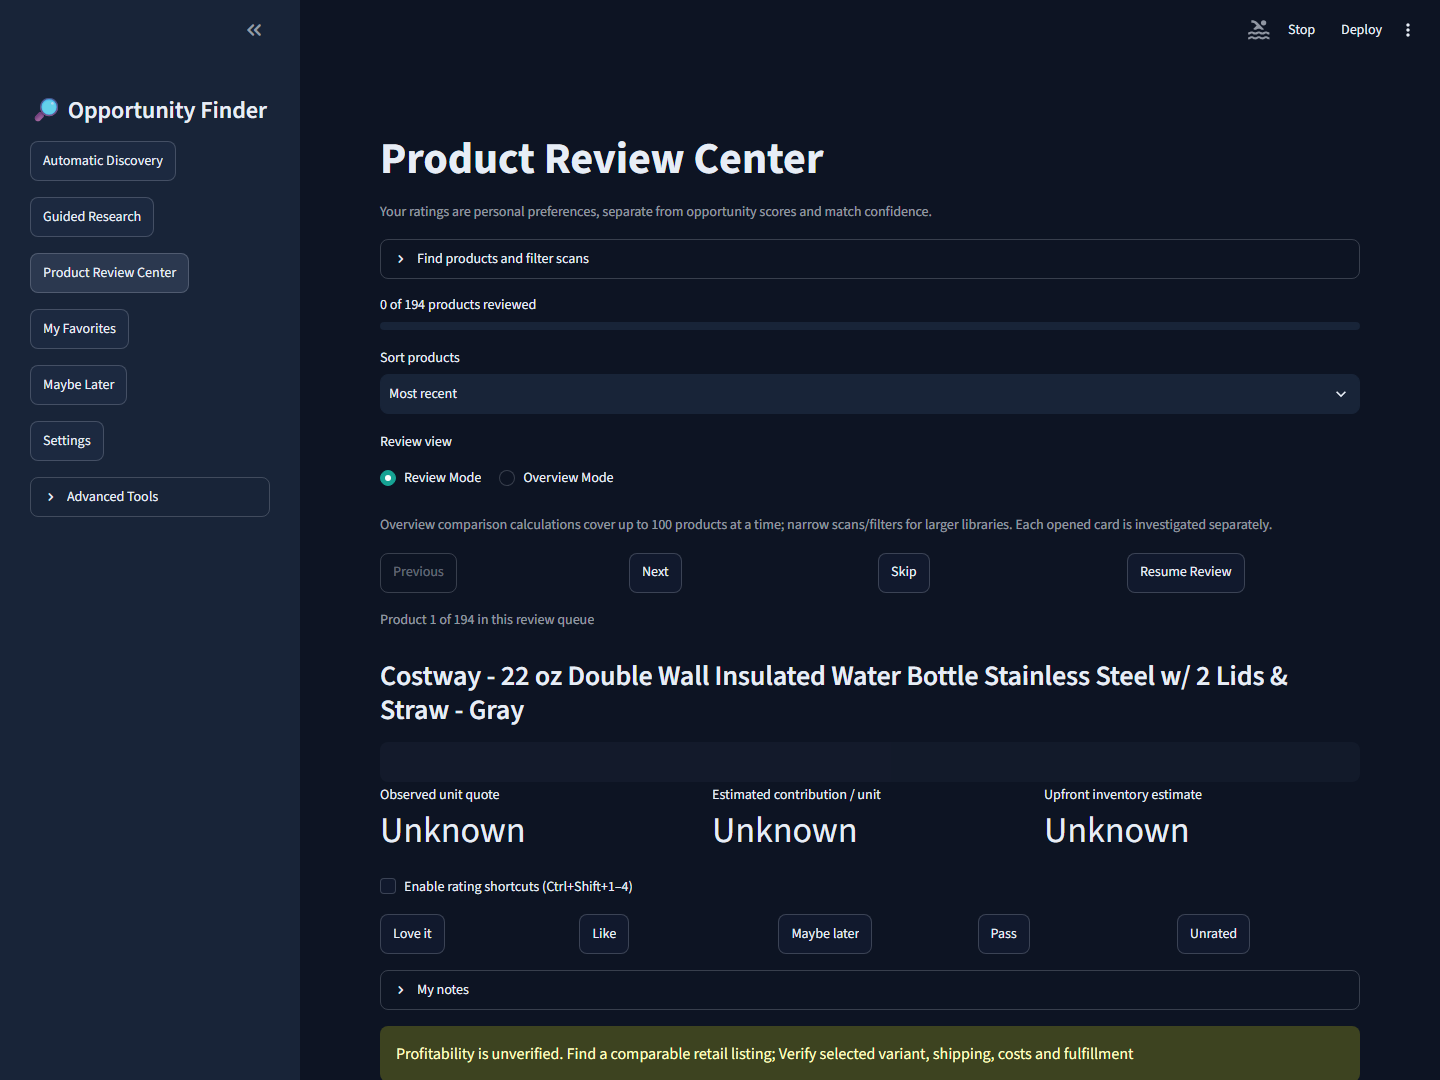
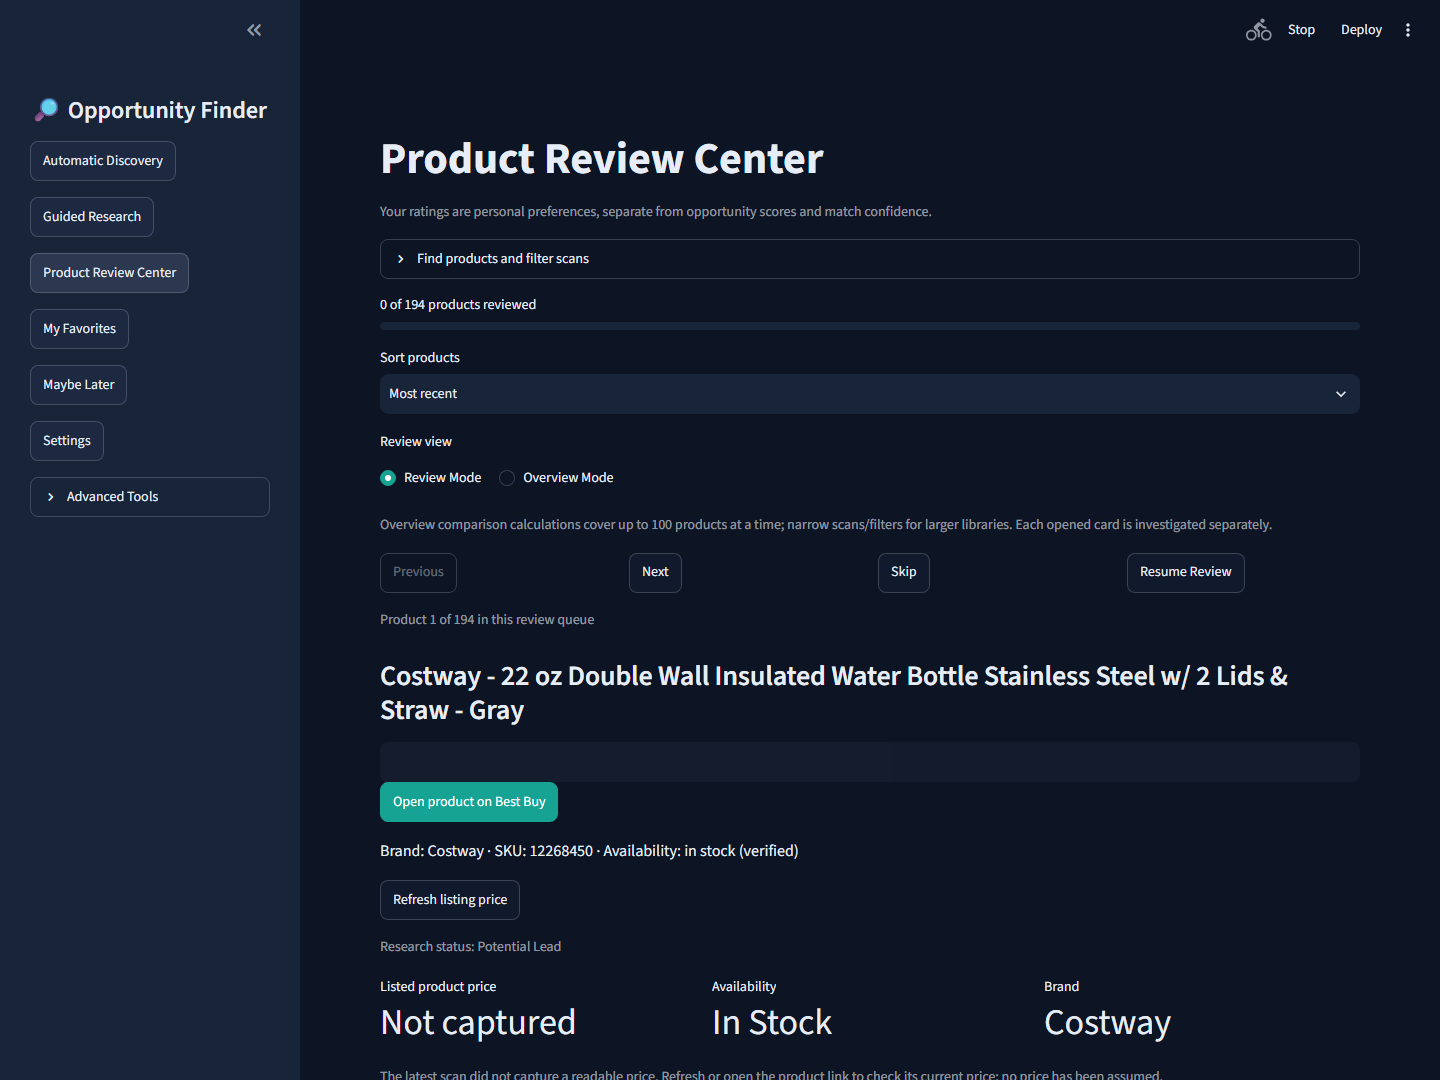
Put listing price, direct product link and known evidence first on review cards

diff --git a/pof/ui_review.py b/pof/ui_review.py
@@ -21,13 +21,63 @@ def decision_card(item, proof, store, *, scenarios=True, controls=None):
     financial = proof.get("financial", {"known": False})
     st.subheader(p.title)
     st.caption(f"{p.source} · {p.category or 'Category unknown'} · {p.collected_at} · Personal rating: {item['rating']}")
+    st.link_button("Open product on " + p.source, p.url, key="listing_" + cid, disabled=not bool(p.url), type="primary")
+    details = []
+    if p.brand:
+        details.append("Brand: " + p.brand)
+    if p.model:
+        details.append("Model: " + p.model)
+    if p.sku:
+        details.append("SKU: " + p.sku)
+    details.append("Availability: " + p.availability.replace("_", " ") + " (" + p.state("availability") + ")")
+    if p.condition and p.condition != "unknown":
+        details.append("Condition: " + p.condition)
+    if p.shipping is not None:
+        details.append("Shipping: " + money(p.shipping, p.currency))
+    if p.delivery_days is not None:
+        details.append(f"Delivery: {p.delivery_days:g} days")
+    if p.rating is not None:
+        details.append(f"Rating: {p.rating:g}/5" + (f" ({p.reviews:g} reviews)" if p.reviews is not None else ""))
+    st.write(" · ".join(details))
+    if p.original_price is not None:
+        st.caption("Source-advertised previous price: " + money(p.original_price, p.currency) + ". This is not an independently verified discount.")
+    from pof.listing_refresh import HOSTS, refresh_listing
+    if p.source in HOSTS and not p.retention_hours and p.collection_method != "bestbuy_api":
+        if st.button("Refresh listing price", key="refresh_" + cid):
+            from pof.live.errors import SourceError
+            try:
+                with st.spinner("Checking this product's public listing…"):
+                    refresh_listing(p, store)
+                st.rerun()
+            except SourceError as exc:
+                st.warning(str(exc))
+            except Exception:
+                st.warning("The listing could not be refreshed safely. Open the product link to check its current price.")
     st.caption("Research status: " + (proof.get("best") or {}).get("state", "Potential Lead"))
     if p.image_url and p.image_reuse_permitted and (store.get_config("settings", "application") or {}).get("show_images", False):
         st.image(p.image_url, width=220)
     cols = st.columns(3)
-    cols[0].metric("Observed unit quote", money(p.price, p.currency))
-    cols[1].metric("Estimated contribution / unit", money(financial.get("contribution_profit")))
-    cols[2].metric("Upfront inventory estimate", money(financial.get("inventory_commitment")))
+    previous_prices = [row for row in ReviewStore(store).history(cid) if row["price"] is not None]
+    last_known = previous_prices[-1] if previous_prices else None
+    cols[0].metric("Listed product price" if p.price is not None else "Last known listed price" if last_known else "Listed product price",
+                   money(p.price, p.currency) if p.price is not None else money(last_known["price"], last_known["currency"]) if last_known else "Not captured")
+    if p.price is None:
+        st.caption("The latest scan did not capture a readable price. " +
+                   ("Last known quote collected " + last_known["collected_at"] + ". " if last_known else "") +
+                   "Refresh or open the product link to check its current price; no price has been assumed.")
+    else:
+        st.caption("Price collected " + p.collected_at + "; the linked listing may have changed.")
+    if financial.get("known"):
+        cols[1].metric("Estimated contribution / unit", money(financial.get("contribution_profit")))
+        cols[2].metric("Upfront inventory estimate", money(financial.get("inventory_commitment")))
+    else:
+        cols[1].metric("Availability", p.availability.replace("_", " ").title())
+        if p.shipping is not None:
+            cols[2].metric("Reported shipping", money(p.shipping, p.currency))
+        elif p.rating is not None:
+            cols[2].metric("Product rating", f"{p.rating:g} / 5")
+        else:
+            cols[2].metric("Brand" if p.brand else "Source", p.brand or p.source)
     if controls:
         controls()
     best = proof.get("best")
@@ -40,7 +90,6 @@ def decision_card(item, proof, store, *, scenarios=True, controls=None):
     st.write("Why investigate: " + (best["promise"] if best else "A catalog candidate that needs independent retail and cost evidence."))
     st.caption("Main risks: different variants, unavailable fulfillment, changing quotes, returns and advertising costs. An asking price does not establish demand or a sale.")
     st.write("Next step: " + (best["next_step"] if best else "Confirm selected variant, destination, shipping and an independent selling reference."))
-    st.link_button("Open source listing", p.url, key="listing_" + cid, disabled=not bool(p.url))
     with st.expander("Sourcing, specifications and comparable offers"):
         st.write(f"Brand: {p.brand or 'Unknown'} · Model: {p.model or 'Unknown'} · Condition: {p.condition}")
         st.write(f"Source role: {p.role}. Retailers are not confirmed dropshipping suppliers.")

diff --git a/pof/listing_refresh.py b/pof/listing_refresh.py
@@ -1,0 +1,45 @@
+"""Refresh a single public listing's explicit offer without guessing a match."""
+from dataclasses import replace
+from urllib.parse import urlsplit
+
+from pof.extraction import parse_products
+from pof.live.errors import SourceError
+from pof.models import NUMERIC, now
+from pof.security import SafeHTTP
+
+HOSTS = {"Best Buy": "www.bestbuy.com", "Amazon US": "www.amazon.com", "AliExpress": "www.aliexpress.com"}
+
+
+def refresh_listing(product, store, http=None):
+    host = HOSTS.get(product.source)
+    if not host or urlsplit(product.url).hostname != host or product.retention_hours or product.collection_method == "bestbuy_api":
+        raise SourceError("refresh_unavailable", "Use Source Manager to refresh this source; direct public-listing refresh is unavailable.")
+    raw = (http or SafeHTTP(2)).fetch(product.url, host, ("text/html", "application/xhtml+xml"))
+    try:
+        offers = parse_products(raw, {"name": product.source, "role": product.role, "url": product.url})
+    except (ValueError, TypeError, KeyError):
+        raise SourceError("price_unavailable", "The public page did not provide a readable product offer. Open the listing to check its price.") from None
+    matched = [p for p in offers if p.price is not None and (
+        (product.sku and p.sku == product.sku) or (product.gtin and p.gtin == product.gtin))]
+    if len(matched) != 1:
+        raise SourceError("price_unavailable", "A price for this exact product could not be confirmed. Open the listing to check its current offer.")
+    found = matched[0]
+    states = dict(product.states)
+    # Preserve identity/notes and append a quote; other old observations are not
+    # silently made fresh by refreshing price alone.
+    for field in NUMERIC | {"availability", "condition"}:
+        if getattr(product, field, None) is not None:
+            states[field] = "stale"
+    states.update(price="verified", currency="verified" if len(found.currency) == 3 else "unavailable")
+    availability = product.availability
+    if found.availability in {"in_stock", "out_of_stock", "preorder"}:
+        availability = found.availability
+        states["availability"] = "verified"
+    stamp = now()
+    refreshed = replace(product, price=found.price, currency=found.currency, availability=availability,
+                        collected_at=stamp, states=states,
+                        source_attributes={**product.source_attributes,
+                            "other_details_collected_at": product.source_attributes.get("other_details_collected_at", product.collected_at),
+                            "price_refresh_method": "Public listing Product JSON-LD"})
+    store.add_run("Refreshed listing: " + product.title[:160], [refreshed])
+    return refreshed

diff --git a/tests/test_listing_refresh.py b/tests/test_listing_refresh.py
@@ -1,0 +1,45 @@
+import json
+
+import pytest
+
+from pof.listing_refresh import refresh_listing
+from pof.models import Product
+from pof.review_store import ReviewStore
+from pof.storage import Store
+
+
+class Page:
+    def __init__(self, sku="123"):
+        self.sku = sku
+
+    def fetch(self, url, host, types):
+        assert host == "www.bestbuy.com"
+        return ('<script type="application/ld+json">' + json.dumps({"@type": "Product", "name": "Fixture bottle", "sku": self.sku,
+            "offers": {"@type": "Offer", "price": 12.34, "priceCurrency": "USD"}}) + '</script>').encode()
+
+
+def test_exact_listing_refresh_appends_price_without_losing_rating(tmp_path):
+    store = Store(tmp_path / "research.sqlite3")
+    p = Product("Best Buy", "Fixture bottle", sku="123", url="https://www.bestbuy.com/product/bottle/sku/123", shipping=2, moq=1)
+    store.add_run("Original", [p])
+    review = ReviewStore(store)
+    cid = review.items()[0]["id"]
+    review.rate(cid, "Like", "Keep my notes")
+    refresh_listing(p, store, Page())
+    item = review.items()[0]
+    assert item["id"] == cid
+    assert item["product"].price == 12.34
+    assert item["rating"] == "Like" and item["note"] == "Keep my notes"
+    assert item["product"].state("shipping") == "stale"
+    assert len(review.history(cid)) == 2
+
+
+def test_unmatched_or_untrusted_listing_does_not_replace_price(tmp_path):
+    store = Store(tmp_path / "research.sqlite3")
+    p = Product("Best Buy", "Bottle", sku="123", url="https://www.bestbuy.com/product/bottle/sku/123")
+    with pytest.raises(ValueError):
+        refresh_listing(p, store, Page("different"))
+    assert not store.products()
+    p.url = "https://unrelated.example/product"
+    with pytest.raises(ValueError):
+        refresh_listing(p, store, Page())

diff --git a/pof/opportunity_engine.py b/pof/opportunity_engine.py
@@ -140,15 +140,19 @@ def build_leads(products, settings, assumptions=None, reviews=None, buy_ids=None
                 missing.append("Confirm product identity, variant, material and package quantity")
             if a.shipping is None:
                 missing.append("Confirm inbound shipping per unit")
+            elif a.state("shipping") == "stale":
+                missing.append("Refresh stale shipping costs")
             if a.moq is None:
                 missing.append("Confirm minimum order quantity")
+            elif a.state("moq") == "stale":
+                missing.append("Refresh stale minimum order quantity")
             if a.currency != b.currency or a.currency != "USD":
                 missing.append("Obtain comparable USD quotes; no currency conversion is assumed")
             if a.price is None or b.price is None:
                 missing.append("Confirm both current unit prices")
             if a.condition == "unknown" or b.condition == "unknown":
                 missing.append("Confirm product condition")
-            if a.availability != "in_stock":
+            if a.availability != "in_stock" or a.state("availability") == "stale":
                 missing.append("Confirm stock and fulfillment availability")
             if a.source_attributes.get("price_basis") == "advertised_minimum":
                 missing.append("Confirm selected variant cost without minimum/coupon conditions")

diff --git a/tests/test_review_ui.py b/tests/test_review_ui.py
@@ -20,6 +20,8 @@ def test_review_rate_favorites_export_and_notes():
     app.sidebar.radio[0].set_value("Product Review Center").run()
     assert not app.exception
     next(x for x in app.multiselect if x.label == "Product sources").set_value(["Contract supplier"]).run()
+    assert next(m for m in app.metric if m.label == "Listed product price").value == "USD 5.00"
+    assert any(b.proto.label == "Open product on Contract supplier" for b in app.get("link_button"))
     next(x for x in app.text_area if x.label == "Personal notes").set_value("Verify packaging")
     next(b for b in app.button if b.label == "Love it").click().run()
     assert not app.exception

diff --git a/docs/REVIEW_CENTER.md b/docs/REVIEW_CENTER.md
@@ -44,3 +44,5 @@ Existing licensed observation expiry remains enforced, including derived session
 - No new data provider, authenticated integration, shipping quotation, selected-variant purchase cost, sales forecast, Shopify publishing or Windows security change is claimed.
 
 Final local validation: **115 tests passed**, Ruff passed, pip dependency consistency passed, the locked dependency audit found no known vulnerabilities, and the heuristic secret scan passed. The three existing Streamlit/Pandas chart warnings remain non-fatal. CSV and the five-sheet research workbook were both downloaded through the actual Favorites UI and reopened/validated locally. Original scan estimates remain saved; Review Center comparison scenarios use the current financial assumptions without rewriting those historical records.
+
+Card usability correction: the product link, listed price, brand/model/SKU, stock and available shipping/delivery/review details appear before rating controls. Unavailable profit/inventory estimates no longer occupy the primary metrics; stock and known brand/source information appear instead. Prices show collection timestamps, and a previous known quote is explicitly labeled when the latest scan missed price. Refresh listing price attempts one exact public listing using explicit structured offers and SKU/GTIN verification, appending history without losing ratings. Other old costs become stale and cannot silently support new profitability. Browser/API restrictions and licensed retention remain unchanged. Best Buy search and direct HTTP probes for the screenshot's Costway SKU 12268450 timed out during this correction; no real price was invented or claimed as retrieved.
